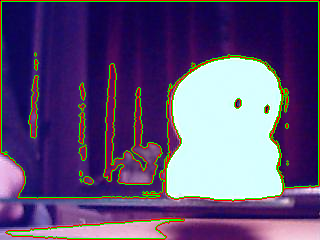
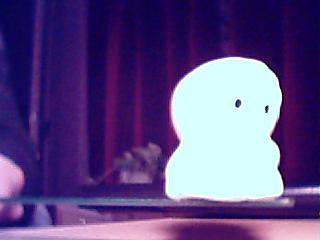
Se agrega el algoritmo de contornos activos para secuencias de imagenes

diff --git a/TPs/Demo/src/main/java/ar/edu/untref/imagenes/Program.java b/TPs/Demo/src/main/java/ar/edu/untref/imagenes/Program.java
@@ -65,6 +65,9 @@ public class Program extends Application {
     private BorderDetectors borderDetectors;
     private Softeners softeners;
 
+    private List<ImagePlus> frames;
+    private int indexFrame = 0;
+
     @Override
     public void start(Stage primaryStage) {
         try {
@@ -81,6 +84,7 @@ public class Program extends Application {
 
             ((VBox) scene.getRoot()).getChildren().addAll(createMenuBar(), createMainLayout());
             stage.show();
+
         } catch (Exception e) {
             e.printStackTrace();
         }
@@ -249,9 +253,11 @@ public class Program extends Application {
 
         Menu menuActiveContourns = new Menu("Active contourns");
         MenuItem activeContourns = new MenuItem("Segmentation");
+        MenuItem activeContournsVideo = new MenuItem("Video segmentation");
         activeContourns.setOnAction(listenerActiveContourns);
+        activeContournsVideo.setOnAction(listenerActiveContournsVideo);
 
-        menuActiveContourns.getItems().addAll(activeContourns);
+        menuActiveContourns.getItems().addAll(activeContourns, activeContournsVideo);
 
         menuBar.getMenus().addAll(menuFile, geometricFigures, gradients, menuOperations, menuFunctions, menuNoise,
                 menuSuavizado, menuSyntheticImages, menuBorderDetection, menuDirectionalBorder, menuActiveContourns);
@@ -501,6 +507,33 @@ public class Program extends Application {
         }
         int[][] matrixImageResult = getGrayMatrix(imagePlus);
         matrixGray = matrixImageResult;
+
+        imageViewResult.setOnMouseClicked(new EventHandler<MouseEvent>() {
+
+            @Override
+            public void handle(MouseEvent event) {
+
+                switch (event.getButton()) {
+
+                case PRIMARY:
+                    if (indexFrame < frames.size() - 1 && imageViewResult != null) {
+                        indexFrame++;
+                        showSequenceImages();
+                    }
+                    break;
+
+                case SECONDARY:
+                    if (indexFrame > 0 && imageViewResult != null) {
+                        indexFrame--;
+                        showSequenceImages();
+                    }
+                    break;
+
+                default:
+                    break;
+                }
+            }
+        });
     }
 
     private void copyImageResultInNewWindow() {
@@ -524,7 +557,7 @@ public class Program extends Application {
         stage.show();
     }
 
-    private void copyMainImageInNewWindow(int countIteration) {
+    private void copyMainImageInNewWindow(int countIteration, boolean video) {
 
         int w = (int) imageViewOriginal.getImage().getWidth();
         int h = (int) imageViewOriginal.getImage().getHeight();
@@ -573,16 +606,35 @@ public class Program extends Application {
                         int x2 = (int) event.getX() - 2;
                         int y2 = (int) event.getY() - 2;
 
-                        Image image = activeContours.segment(imagePlus, new Point(x1, y1), new Point(x2, y2),
-                                countIteration);
-                        imageView.setImage(image);
+                        if (!video) {
 
+                            ImagePlus imageActiveContornous = activeContours.segment(imagePlus, new Point(x1, y1),
+                                    new Point(x2, y2), countIteration);
+                            Image imageResult = SwingFXUtils.toFXImage(imageActiveContornous.getBufferedImage(), null);
+                            imageView.setImage(imageResult);
+
+                        } else {
+
+                            frames = functions.openSequenceImage(activeContours, countIteration, x1, y1, x2, y2);
+                            showSequenceImages();
+                        }
                     } catch (IOException e) {
                         e.printStackTrace();
                     }
                 }
             }
         });
+    }
+
+    private void showSequenceImages() {
+
+        ImagePlus image = (ImagePlus) frames.get(indexFrame);
+
+        int[][] matrixResultR = functions.getMatrixImage(image).get(3);
+        int[][] matrixResultG = functions.getMatrixImage(image).get(2);
+        int[][] matrixResultB = functions.getMatrixImage(image).get(1);
+
+        setSizeImageViewResult(ui.getImageResultColor(matrixResultR, matrixResultG, matrixResultB));
     }
 
     private EventHandler<ActionEvent> listenerCreateCircle = new EventHandler<ActionEvent>() {
@@ -1528,7 +1580,23 @@ public class Program extends Application {
                         new ListenerResultDialogs<Integer>() {
                             @Override
                             public void accept(Integer result) {
-                                copyMainImageInNewWindow(result);
+                                copyMainImageInNewWindow(result, false);
+                            }
+                        });
+            }
+        }
+    };
+
+    private EventHandler<ActionEvent> listenerActiveContournsVideo = new EventHandler<ActionEvent>() {
+
+        @Override
+        public void handle(ActionEvent event) {
+            if (getImageOriginal() != null) {
+                Dialogs.showConfigurationParameter("Iteraciones", "Ingrese la cantidad de iteraciones",
+                        new ListenerResultDialogs<Integer>() {
+                            @Override
+                            public void accept(Integer result) {
+                                copyMainImageInNewWindow(result, true);
                             }
                         });
             }

diff --git a/TPs/Demo/src/main/java/ar/edu/untref/imagenes/Functions.java b/TPs/Demo/src/main/java/ar/edu/untref/imagenes/Functions.java
@@ -6,7 +6,10 @@ import java.awt.image.BufferedImage;
 import java.io.File;
 import java.io.IOException;
 import java.nio.file.Files;
+import java.text.DecimalFormat;
 import java.util.ArrayList;
+import java.util.Arrays;
+import java.util.LinkedList;
 import java.util.List;
 import java.util.Random;
 
@@ -16,6 +19,7 @@ import ij.ImagePlus;
 import javafx.application.Platform;
 import javafx.embed.swing.SwingFXUtils;
 import javafx.scene.image.Image;
+import javafx.stage.DirectoryChooser;
 import javafx.stage.FileChooser;
 import javafx.stage.FileChooser.ExtensionFilter;
 import javafx.stage.Stage;
@@ -727,5 +731,44 @@ public class Functions {
         arrayAverages[2] = averageBlue;
 
         return arrayAverages;
+    }
+
+    public List<ImagePlus> openSequenceImage(ActiveContours activeContours, int iteration, int x1, int y1, int x2,
+            int y2) {
+
+        DirectoryChooser dirChooser = new DirectoryChooser();
+        File folder = dirChooser.showDialog(null);
+
+        if (folder != null) {
+
+            File[] selectedImages = folder.listFiles();
+            Arrays.sort(selectedImages);
+
+            List<ImagePlus> frames = new LinkedList<>();
+
+            long startTime = System.currentTimeMillis();
+            for (int i = 0; i < selectedImages.length; i++) {
+
+                ImagePlus frame = new ImagePlus(selectedImages[i].getAbsolutePath());
+
+                frame = activeContours.segment(frame, new Point(x1, y1), new Point(x2, y2), iteration);
+                frames.add(frame);
+            }
+
+            long endTime = System.currentTimeMillis();
+            double duration = (endTime - startTime);
+            double averageDuration = duration / selectedImages.length;
+            double fps = (1 / averageDuration) * 1000;
+
+            DecimalFormat df = new DecimalFormat("0.##");
+            String resultFPS = df.format(fps);
+
+            String info = "Duración total: " + duration / 1000 + " seg.\n" + "Cantidad de imágenes: " + selectedImages.length
+                    + "\n" + "FPS: " + resultFPS + " fps";
+            Dialogs.showInformation(info);
+
+            return frames;
+        }
+        return null;
     }
 }

diff --git a/TPs/Demo/src/main/java/ar/edu/untref/imagenes/ActiveContours.java b/TPs/Demo/src/main/java/ar/edu/untref/imagenes/ActiveContours.java
@@ -6,8 +6,6 @@ import java.util.ArrayList;
 import java.util.List;
 
 import ij.ImagePlus;
-import javafx.embed.swing.SwingFXUtils;
-import javafx.scene.image.Image;
 
 public class ActiveContours {
 
@@ -22,6 +20,7 @@ public class ActiveContours {
     private Functions functions;
 
     private int[][] matrixTheta;
+    private int[] averageColors;
 
     public ActiveContours(Functions functions) {
         this.functions = functions;
@@ -56,7 +55,7 @@ public class ActiveContours {
         return new Curve(pointSince, pointUntil);
     }
 
-    public Image segment(ImagePlus imagePlus, Point point1, Point point2, int countIteration) {
+    public ImagePlus segment(ImagePlus imagePlus, Point point1, Point point2, int countIteration) {
 
         int w = imagePlus.getWidth();
         int h = imagePlus.getHeight();
@@ -87,7 +86,7 @@ public class ActiveContours {
             }
         }
 
-        int[] averageColors = functions.getAverageRGB(imagePlus, point1, point2);
+        averageColors = functions.getAverageRGB(imagePlus, point1, point2);
 
         for (int i = 0; i < countIteration; i++) {
 
@@ -124,8 +123,7 @@ public class ActiveContours {
         pointsLIn.clear();
         pointsLOut.clear();
 
-        Image imageResult = SwingFXUtils.toFXImage(imagePlus.getBufferedImage(), null);
-        return imageResult;
+        return imagePlus;
     }
 
     private void removeLOutNoCorrespondent(ImagePlus imagePlus, Point point) {
